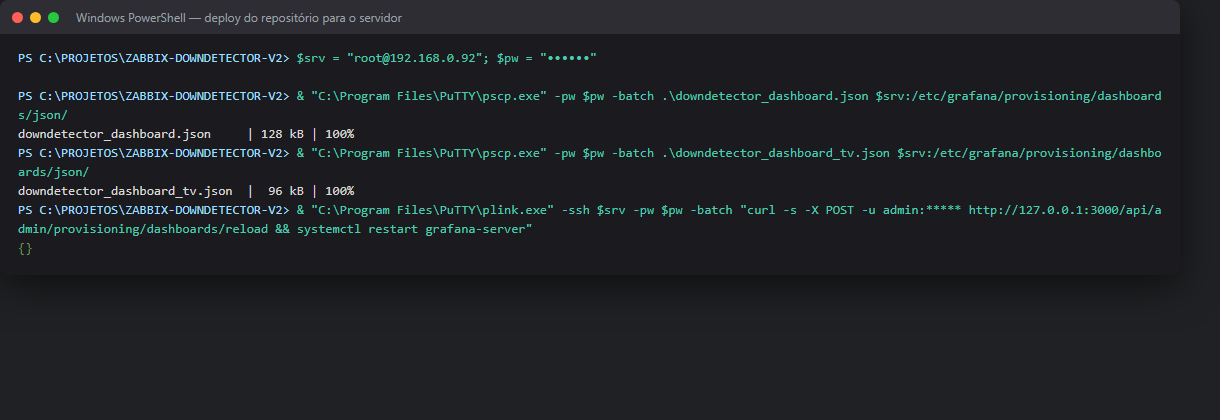
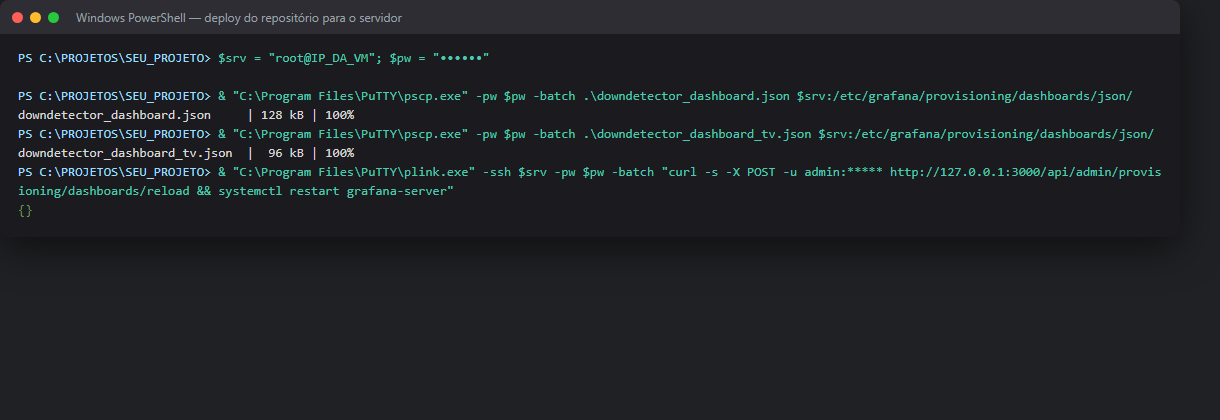
docs: remove IP interno de prints e instruções de captura

Changed region(s): [[0.0, 0.2167, 0.9656, 0.5571], [0.0934, 0.1238, 0.4984, 0.1548]]

diff --git a/docs/_tmp_term/te_05_final.html b/docs/_tmp_term/te_05_final.html
@@ -1,0 +1,61 @@
+<!DOCTYPE html><html><head><meta charset="utf-8"><style>
+* { margin:0; padding:0; box-sizing:border-box; }
+body { background:#202124; padding:0; font-family:Consolas,'Cascadia Mono','Segoe UI Symbol','Segoe UI Emoji',monospace; }
+.win { border-radius:8px; overflow:hidden; box-shadow:0 10px 40px rgba(0,0,0,.55); background:#1b1b1f; }
+.bar { height:34px; background:#2d2d33; display:flex; align-items:center; padding:0 12px; gap:7px; }
+.dot { width:11px; height:11px; border-radius:50%; }
+.dot.r{background:#ff5f56}.dot.y{background:#ffbd2e}.dot.g{background:#27c93f}
+.ttl { margin-left:10px; color:#9aa0a6; font-size:12px; font-family:'Segoe UI',Arial,sans-serif; }
+.term { padding:14px 18px 18px; font-size:13px; line-height:19px; color:#d8d8d8; white-space:pre-wrap; word-break:break-all; }
+.p  { color:#9cdcfe; }        /* prompt */
+.c  { color:#4ec9b0; }        /* comando */
+.g  { color:#6a9955; }        /* ok verde */
+.b  { color:#569cd6; }        /* azul */
+.yl { color:#dcdcaa; }        /* amarelo */
+.r  { color:#f48771; }        /* vermelho */
+.d  { color:#808080; }        /* dim */
+.w  { color:#ffffff; font-weight:600; }
+.cy { color:#4dd0e1; }
+</style></head>
+<body><div class="win" style="width:1180px">
+<div class="bar"><span class="dot r"></span><span class="dot y"></span><span class="dot g"></span>
+<span class="ttl">install.sh — etapas 10 a 13 e resumo (log real)</span></div>
+<div class="term"><span class="cy">── [10/13] Configurando kiosk da TV ─────────────────────────────────────</span>
+<span class="b">[INFO]</span>  Kiosk não configurado (ok).
+
+<span class="cy">── [11/13] Coleta inicial (semeia o dashboard) ─────────────────────────────────────</span>
+<span class="b">[INFO]</span>  Rodando o coletor (1/2) — primeira passada cria o LLD...
+<span class="g">[ OK ]</span>  Coleta 1 concluída
+<span class="b">[INFO]</span>  Aguardando o Zabbix processar o LLD (20s)...
+<span class="b">[INFO]</span>  Rodando o coletor (2/2) — envia os valores das chaves criadas...
+<span class="g">[ OK ]</span>  Coleta 2 concluída
+
+<span class="cy">── [12/13] Reiniciando Grafana (aplica plugins/provisioning) ─────────────────────────────────────</span>
+<span class="b">[INFO]</span>  Aguardando o Grafana voltar (até 4 min)...
+<span class="g">[ OK ]</span>  Grafana no ar
+
+<span class="cy">── [13/13] Verificação final ─────────────────────────────────────</span>
+  <span class="g">✓</span> Zabbix: template, host e itens LLD
+  <span class="g">✓</span> Grafana: serviço ativo
+  <span class="g">✓</span> Grafana: datasource Zabbix responde
+  <span class="g">✓</span> Grafana: plugin HTML ativo
+  <span class="g">✓</span> Dashboard 'User' provisionado
+  <span class="g">✓</span> Dashboard 'Wallboard' provisionado
+  <span class="g">✓</span> Ícones publicados no Grafana
+  <span class="g">✓</span> Playwright importa no venv
+  <span class="g">✓</span> Wrapper do coletor executável
+  <span class="g">✓</span> Cron agendado (ou desabilitado)
+
+<span class="g">════════════════════════════════════════════════════════════════</span>
+<span class="g">  ✅ Instalação concluída e verificada</span>
+<span class="g">════════════════════════════════════════════════════════════════</span>
+
+  <span class="w">Dashboards</span>
+   TV/Wallboard:  <span class="cy">http://127.0.0.1:3000/d/downdetector-tv-1?kiosk</span>
+   Investigação:  <span class="cy">http://127.0.0.1:3000/d/downdetector-noc-1</span>
+
+  <span class="w">Operação</span>
+   Testar coletor:  <span class="yl">/opt/downdetector-zabbix/run_collector.sh --test</span>
+   Forçar coleta:   <span class="yl">/opt/downdetector-zabbix/run_collector.sh</span>
+   Log da instalação:  <span class="yl">/opt/downdetector-zabbix/logs/install.log</span>
+   Cron:            <span class="yl">/etc/cron.d/downdetector-zabbix (a cada 5 min)</span></div></div></body></html>

diff --git a/docs/_tmp_term/te_02_inicio.html b/docs/_tmp_term/te_02_inicio.html
@@ -1,0 +1,45 @@
+<!DOCTYPE html><html><head><meta charset="utf-8"><style>
+* { margin:0; padding:0; box-sizing:border-box; }
+body { background:#202124; padding:0; font-family:Consolas,'Cascadia Mono','Segoe UI Symbol','Segoe UI Emoji',monospace; }
+.win { border-radius:8px; overflow:hidden; box-shadow:0 10px 40px rgba(0,0,0,.55); background:#1b1b1f; }
+.bar { height:34px; background:#2d2d33; display:flex; align-items:center; padding:0 12px; gap:7px; }
+.dot { width:11px; height:11px; border-radius:50%; }
+.dot.r{background:#ff5f56}.dot.y{background:#ffbd2e}.dot.g{background:#27c93f}
+.ttl { margin-left:10px; color:#9aa0a6; font-size:12px; font-family:'Segoe UI',Arial,sans-serif; }
+.term { padding:14px 18px 18px; font-size:13px; line-height:19px; color:#d8d8d8; white-space:pre-wrap; word-break:break-all; }
+.p  { color:#9cdcfe; }        /* prompt */
+.c  { color:#4ec9b0; }        /* comando */
+.g  { color:#6a9955; }        /* ok verde */
+.b  { color:#569cd6; }        /* azul */
+.yl { color:#dcdcaa; }        /* amarelo */
+.r  { color:#f48771; }        /* vermelho */
+.d  { color:#808080; }        /* dim */
+.w  { color:#ffffff; font-weight:600; }
+.cy { color:#4dd0e1; }
+</style></head>
+<body><div class="win" style="width:1180px">
+<div class="bar"><span class="dot r"></span><span class="dot y"></span><span class="dot g"></span>
+<span class="ttl">sudo ./install.sh — início e configuração (rep. fiel da execução real)</span></div>
+<div class="term"><span class="b">════════════════════════════════════════════════════════════════</span>
+<span class="b">  Downdetector → Zabbix → Grafana — Instalador</span>
+<span class="b">════════════════════════════════════════════════════════════════</span>
+<span class="g">[ OK ]</span>  SO: Debian GNU/Linux 13 (trixie)
+
+<span class="cy">── [1/13] Instalando dependências do sistema ─────────────────────────────────────</span>
+<span class="g">[ OK ]</span>  Dependências do sistema prontas
+
+<span class="cy">════════════════════════════════════════════════════════════</span>
+<span class="cy">  Configuração do Downdetector Monitor</span>
+<span class="cy">════════════════════════════════════════════════════════════</span>
+
+Diretório de instalação [/opt/downdetector-zabbix]: <span class="d">⏎</span>
+Zabbix URL [http://127.0.0.1/zabbix]: <span class="d">⏎</span>
+Zabbix usuário [Admin]: <span class="d">⏎</span>
+<span class="w">Zabbix senha:</span> <span class="d">********</span>
+<span class="g">[ OK ]</span>  Zabbix autenticado: http://127.0.0.1/zabbix
+Grafana URL [http://127.0.0.1:3000]: <span class="d">⏎</span>
+Grafana usuário [admin]: <span class="d">⏎</span>
+<span class="w">Grafana senha:</span> <span class="d">********</span>
+<span class="g">[ OK ]</span>  Grafana autenticado: http://127.0.0.1:3000
+Agendar coleta automática a cada 5 minutos (cron)? <span class="b">[S/n]</span> S
+Configurar este servidor como TV (kiosk em tela cheia)? <span class="b">[s/N]</span> n</div></div></body></html>

diff --git a/docs/_tmp_term/te_04_provisioning.html b/docs/_tmp_term/te_04_provisioning.html
@@ -1,0 +1,42 @@
+<!DOCTYPE html><html><head><meta charset="utf-8"><style>
+* { margin:0; padding:0; box-sizing:border-box; }
+body { background:#202124; padding:0; font-family:Consolas,'Cascadia Mono','Segoe UI Symbol','Segoe UI Emoji',monospace; }
+.win { border-radius:8px; overflow:hidden; box-shadow:0 10px 40px rgba(0,0,0,.55); background:#1b1b1f; }
+.bar { height:34px; background:#2d2d33; display:flex; align-items:center; padding:0 12px; gap:7px; }
+.dot { width:11px; height:11px; border-radius:50%; }
+.dot.r{background:#ff5f56}.dot.y{background:#ffbd2e}.dot.g{background:#27c93f}
+.ttl { margin-left:10px; color:#9aa0a6; font-size:12px; font-family:'Segoe UI',Arial,sans-serif; }
+.term { padding:14px 18px 18px; font-size:13px; line-height:19px; color:#d8d8d8; white-space:pre-wrap; word-break:break-all; }
+.p  { color:#9cdcfe; }        /* prompt */
+.c  { color:#4ec9b0; }        /* comando */
+.g  { color:#6a9955; }        /* ok verde */
+.b  { color:#569cd6; }        /* azul */
+.yl { color:#dcdcaa; }        /* amarelo */
+.r  { color:#f48771; }        /* vermelho */
+.d  { color:#808080; }        /* dim */
+.w  { color:#ffffff; font-weight:600; }
+.cy { color:#4dd0e1; }
+</style></head>
+<body><div class="win" style="width:1180px">
+<div class="bar"><span class="dot r"></span><span class="dot y"></span><span class="dot g"></span>
+<span class="ttl">install.sh — etapas 7 a 9 (log real)</span></div>
+<div class="term"><span class="cy">── [7/13] Provisionando Grafana (datasource, dashboards, ícones) ─────────────────────────────────────</span>
+<span class="g">[ OK ]</span>  Datasource Zabbix provisionado (uid PA67C5EADE9207728)
+<span class="b">[INFO]</span>  Gerando dashboards...
+<span class="g">[ OK ]</span>  Dashboards copiados (User + Wallboard)
+<span class="g">[ OK ]</span>  Ícones instalados (51 arquivos)
+<span class="d">✓ Datasource Zabbix provisionado via arquivo (uid=PA67C5EADE9207728)</span>
+<span class="d">✓ Ícones copiados para /usr/share/grafana/public/img/downdetector</span>
+<span class="d">✓ Plugin gapit-htmlgraphics-panel habilitado</span>
+<span class="d">✓ Plugin alexanderzobnin-zabbix-app habilitado</span>
+<span class="d">✓ Provisioning do Grafana recarregado</span>
+<span class="g">[ OK ]</span>  Grafana provisionado
+
+<span class="cy">── [8/13] Configurando Zabbix (template + host) ─────────────────────────────────────</span>
+<span class="d">✓ Logado no Zabbix (http://127.0.0.1/zabbix)</span>
+<span class="d">✓ Template 'Downdetector Monitor' importado/atualizado</span>
+<span class="d">✓ Host 'Downdetector' atualizado</span>
+<span class="g">[ OK ]</span>  Zabbix configurado
+
+<span class="cy">── [9/13] Agendando coleta (cron */5) ─────────────────────────────────────</span>
+<span class="g">[ OK ]</span>  Cron: /etc/cron.d/downdetector-zabbix</div></div></body></html>

diff --git a/docs/_tmp_term/te_01_preflight.html b/docs/_tmp_term/te_01_preflight.html
@@ -1,0 +1,40 @@
+<!DOCTYPE html><html><head><meta charset="utf-8"><style>
+* { margin:0; padding:0; box-sizing:border-box; }
+body { background:#202124; padding:0; font-family:Consolas,'Cascadia Mono','Segoe UI Symbol','Segoe UI Emoji',monospace; }
+.win { border-radius:8px; overflow:hidden; box-shadow:0 10px 40px rgba(0,0,0,.55); background:#1b1b1f; }
+.bar { height:34px; background:#2d2d33; display:flex; align-items:center; padding:0 12px; gap:7px; }
+.dot { width:11px; height:11px; border-radius:50%; }
+.dot.r{background:#ff5f56}.dot.y{background:#ffbd2e}.dot.g{background:#27c93f}
+.ttl { margin-left:10px; color:#9aa0a6; font-size:12px; font-family:'Segoe UI',Arial,sans-serif; }
+.term { padding:14px 18px 18px; font-size:13px; line-height:19px; color:#d8d8d8; white-space:pre-wrap; word-break:break-all; }
+.p  { color:#9cdcfe; }        /* prompt */
+.c  { color:#4ec9b0; }        /* comando */
+.g  { color:#6a9955; }        /* ok verde */
+.b  { color:#569cd6; }        /* azul */
+.yl { color:#dcdcaa; }        /* amarelo */
+.r  { color:#f48771; }        /* vermelho */
+.d  { color:#808080; }        /* dim */
+.w  { color:#ffffff; font-weight:600; }
+.cy { color:#4dd0e1; }
+</style></head>
+<body><div class="win" style="width:1180px">
+<div class="bar"><span class="dot r"></span><span class="dot y"></span><span class="dot g"></span>
+<span class="ttl">root@debian: — verificação de pré-requisitos (saída real)</span></div>
+<div class="term"><span class="p">root@debian</span><span class="d">:</span><span class="c">~</span><span class="d">$</span> <span class="c">systemctl is-active grafana-server zabbix-server apache2</span>
+active
+active
+active
+
+<span class="p">root@debian</span><span class="d">:</span><span class="c">~</span><span class="d">$</span> <span class="c">grafana-server -v</span>
+Version 13.2.3 (commit: 90ffed056f0884267356c12a0eeb72a022af53f1, branch: release-13.2.3#patched)
+
+<span class="p">root@debian</span><span class="d">:</span><span class="c">~</span><span class="d">$</span> <span class="c">zabbix_server --version</span>
+zabbix_server (Zabbix) 7.4.15
+
+<span class="p">root@debian</span><span class="d">:</span><span class="c">~</span><span class="d">$</span> <span class="c">python3 --version</span>
+Python 3.13.5
+
+<span class="p">root@debian</span><span class="d">:</span><span class="c">~</span><span class="d">$</span> <span class="c">free -h | head -2; df -h / | tail -1</span>
+               total       usada       livre    compart.  buff/cache  disponível
+Mem.:          5,8Gi       1,8Gi       1,3Gi        30Mi       3,0Gi       4,0Gi
+/dev/sda1        47G   15G   30G  34% /</div></div></body></html>

diff --git a/docs/_tmp_term/te_03_estrutura.html b/docs/_tmp_term/te_03_estrutura.html
@@ -1,0 +1,36 @@
+<!DOCTYPE html><html><head><meta charset="utf-8"><style>
+* { margin:0; padding:0; box-sizing:border-box; }
+body { background:#202124; padding:0; font-family:Consolas,'Cascadia Mono','Segoe UI Symbol','Segoe UI Emoji',monospace; }
+.win { border-radius:8px; overflow:hidden; box-shadow:0 10px 40px rgba(0,0,0,.55); background:#1b1b1f; }
+.bar { height:34px; background:#2d2d33; display:flex; align-items:center; padding:0 12px; gap:7px; }
+.dot { width:11px; height:11px; border-radius:50%; }
+.dot.r{background:#ff5f56}.dot.y{background:#ffbd2e}.dot.g{background:#27c93f}
+.ttl { margin-left:10px; color:#9aa0a6; font-size:12px; font-family:'Segoe UI',Arial,sans-serif; }
+.term { padding:14px 18px 18px; font-size:13px; line-height:19px; color:#d8d8d8; white-space:pre-wrap; word-break:break-all; }
+.p  { color:#9cdcfe; }        /* prompt */
+.c  { color:#4ec9b0; }        /* comando */
+.g  { color:#6a9955; }        /* ok verde */
+.b  { color:#569cd6; }        /* azul */
+.yl { color:#dcdcaa; }        /* amarelo */
+.r  { color:#f48771; }        /* vermelho */
+.d  { color:#808080; }        /* dim */
+.w  { color:#ffffff; font-weight:600; }
+.cy { color:#4dd0e1; }
+</style></head>
+<body><div class="win" style="width:1180px">
+<div class="bar"><span class="dot r"></span><span class="dot y"></span><span class="dot g"></span>
+<span class="ttl">install.sh — etapas 3 a 6 (log real)</span></div>
+<div class="term"><span class="cy">── [3/13] Copiando arquivos do projeto ─────────────────────────────────────</span>
+<span class="g">[ OK ]</span>  Arquivos copiados
+
+<span class="cy">── [4/13] Ambiente Python + Chromium ─────────────────────────────────────</span>
+<span class="g">[ OK ]</span>  Virtualenv já existe
+<span class="g">[ OK ]</span>  Pacotes Python instalados
+<span class="g">[ OK ]</span>  Chromium pronto
+
+<span class="cy">── [5/13] Criando wrapper do coletor ─────────────────────────────────────</span>
+<span class="g">[ OK ]</span>  Wrapper: /opt/downdetector-zabbix/run_collector.sh
+
+<span class="cy">── [6/13] Garantindo plugins do Grafana ─────────────────────────────────────</span>
+<span class="g">[ OK ]</span>  Plugin presente: gapit-htmlgraphics-panel
+<span class="g">[ OK ]</span>  Plugin presente: alexanderzobnin-zabbix-app</div></div></body></html>

diff --git a/docs/_tmp_term/te_07_deploy_windows.html b/docs/_tmp_term/te_07_deploy_windows.html
@@ -1,0 +1,30 @@
+<!DOCTYPE html><html><head><meta charset="utf-8"><style>
+* { margin:0; padding:0; box-sizing:border-box; }
+body { background:#202124; padding:0; font-family:Consolas,'Cascadia Mono','Segoe UI Symbol','Segoe UI Emoji',monospace; }
+.win { border-radius:8px; overflow:hidden; box-shadow:0 10px 40px rgba(0,0,0,.55); background:#1b1b1f; }
+.bar { height:34px; background:#2d2d33; display:flex; align-items:center; padding:0 12px; gap:7px; }
+.dot { width:11px; height:11px; border-radius:50%; }
+.dot.r{background:#ff5f56}.dot.y{background:#ffbd2e}.dot.g{background:#27c93f}
+.ttl { margin-left:10px; color:#9aa0a6; font-size:12px; font-family:'Segoe UI',Arial,sans-serif; }
+.term { padding:14px 18px 18px; font-size:13px; line-height:19px; color:#d8d8d8; white-space:pre-wrap; word-break:break-all; }
+.p  { color:#9cdcfe; }        /* prompt */
+.c  { color:#4ec9b0; }        /* comando */
+.g  { color:#6a9955; }        /* ok verde */
+.b  { color:#569cd6; }        /* azul */
+.yl { color:#dcdcaa; }        /* amarelo */
+.r  { color:#f48771; }        /* vermelho */
+.d  { color:#808080; }        /* dim */
+.w  { color:#ffffff; font-weight:600; }
+.cy { color:#4dd0e1; }
+</style></head>
+<body><div class="win" style="width:1180px">
+<div class="bar"><span class="dot r"></span><span class="dot y"></span><span class="dot g"></span>
+<span class="ttl">Windows PowerShell — deploy do repositório para o servidor</span></div>
+<div class="term"><span class="p">PS C:\PROJETOS\SEU_PROJETO&gt;</span> <span class="c">$srv = "root@IP_DA_VM"; $pw = "••••••"</span>
+
+<span class="p">PS C:\PROJETOS\SEU_PROJETO&gt;</span> <span class="c">&amp; "C:\Program Files\PuTTY\pscp.exe" -pw $pw -batch .\downdetector_dashboard.json $srv:/etc/grafana/provisioning/dashboards/json/</span>
+downdetector_dashboard.json     | 128 kB | 100%
+<span class="p">PS C:\PROJETOS\SEU_PROJETO&gt;</span> <span class="c">&amp; "C:\Program Files\PuTTY\pscp.exe" -pw $pw -batch .\downdetector_dashboard_tv.json $srv:/etc/grafana/provisioning/dashboards/json/</span>
+downdetector_dashboard_tv.json  |  96 kB | 100%
+<span class="p">PS C:\PROJETOS\SEU_PROJETO&gt;</span> <span class="c">&amp; "C:\Program Files\PuTTY\plink.exe" -ssh $srv -pw $pw -batch "curl -s -X POST -u admin:***** http://127.0.0.1:3000/api/admin/provisioning/dashboards/reload &amp;&amp; systemctl restart grafana-server"</span>
+<span class="g">{}</span></div></div></body></html>

diff --git a/docs/_tmp_term/te_06_coletor.html b/docs/_tmp_term/te_06_coletor.html
@@ -1,0 +1,26 @@
+<!DOCTYPE html><html><head><meta charset="utf-8"><style>
+* { margin:0; padding:0; box-sizing:border-box; }
+body { background:#202124; padding:0; font-family:Consolas,'Cascadia Mono','Segoe UI Symbol','Segoe UI Emoji',monospace; }
+.win { border-radius:8px; overflow:hidden; box-shadow:0 10px 40px rgba(0,0,0,.55); background:#1b1b1f; }
+.bar { height:34px; background:#2d2d33; display:flex; align-items:center; padding:0 12px; gap:7px; }
+.dot { width:11px; height:11px; border-radius:50%; }
+.dot.r{background:#ff5f56}.dot.y{background:#ffbd2e}.dot.g{background:#27c93f}
+.ttl { margin-left:10px; color:#9aa0a6; font-size:12px; font-family:'Segoe UI',Arial,sans-serif; }
+.term { padding:14px 18px 18px; font-size:13px; line-height:19px; color:#d8d8d8; white-space:pre-wrap; word-break:break-all; }
+.p  { color:#9cdcfe; }        /* prompt */
+.c  { color:#4ec9b0; }        /* comando */
+.g  { color:#6a9955; }        /* ok verde */
+.b  { color:#569cd6; }        /* azul */
+.yl { color:#dcdcaa; }        /* amarelo */
+.r  { color:#f48771; }        /* vermelho */
+.d  { color:#808080; }        /* dim */
+.w  { color:#ffffff; font-weight:600; }
+.cy { color:#4dd0e1; }
+</style></head>
+<body><div class="win" style="width:1180px">
+<div class="bar"><span class="dot r"></span><span class="dot y"></span><span class="dot g"></span>
+<span class="ttl">Coletor em operação — log real (/opt/downdetector-zabbix/logs/downdetector.log)</span></div>
+<div class="term"><span class="d">2026-09-30 15:05:05</span> <span class="b">[INFO]</span> Discovery OK: Response from "127.0.0.1:10051": "processed: 1; failed: 0; total: 1; seconds spent: 0.000067"
+<span class="d">2026-09-30 15:05:06</span> <span class="b">[INFO]</span> zabbix_sender OK: Response from "127.0.0.1:10051": "<span class="g">processed: 85; failed: 0</span>; total: 85; seconds spent: 0.000327"
+<span class="d">2026-09-30 15:10:07</span> <span class="b">[INFO]</span> Discovery OK: Response from "127.0.0.1:10051": "processed: 1; failed: 0; total: 1; seconds spent: 0.000068"
+<span class="d">2026-09-30 15:10:08</span> <span class="b">[INFO]</span> zabbix_sender OK: Response from "127.0.0.1:10051": "<span class="g">processed: 85; failed: 0</span>; total: 85; seconds spent: 0.000343"</div></div></body></html>

diff --git a/docs/make_term_prints.py b/docs/make_term_prints.py
@@ -237,9 +237,9 @@ block("te_06_coletor", "Coletor em operação — log real (/opt/downdetector-za
 ], 300)
 
 # ── T7: deploy a partir do Windows (PowerShell) ─────────────────────────────
-PS = '<span class="p">PS C:\\PROJETOS\\ZABBIX-DOWNDETECTOR-V2&gt;</span> '
+PS = '<span class="p">PS C:\PROJETOS\SEU_PROJETO&gt;</span> '
 block("te_07_deploy_windows", "Windows PowerShell — deploy do repositório para o servidor", [
-    PS + '<span class="c">$srv = "root@192.168.0.92"; $pw = "••••••"</span>',
+    PS + '<span class="c">$srv = "root@IP_DA_VM"; $pw = "••••••"</span>',
     "",
     PS + '<span class="c">&amp; "C:\\Program Files\\PuTTY\\pscp.exe" -pw $pw -batch .\\downdetector_dashboard.json $srv:/etc/grafana/provisioning/dashboards/json/</span>',
     "downdetector_dashboard.json     | 128 kB | 100%",

diff --git a/docs/README.md b/docs/README.md
@@ -28,13 +28,13 @@ python docs\build_pdf.py
 
 ## Atualizar os prints dos dashboards
 
-Na VM de teste (192.168.0.92), com o pipeline no ar:
+Na VM de teste (IP_DA_VM), com o pipeline no ar:
 
 ```powershell
-& "C:\Program Files\PuTTY\pscp.exe" -pw <senha> -batch docs\shot_dashboards.py root@192.168.0.92:/tmp/
-& "C:\Program Files\PuTTY\plink.exe" -ssh root@192.168.0.92 -pw <senha> -batch "/opt/downdetector-zabbix/venv/bin/python /tmp/shot_dashboards.py"
-& "C:\Program Files\PuTTY\pscp.exe" -pw <senha> -batch root@192.168.0.92:/tmp/user_kiosk.png docs\img\04_dashboard_user.png
-& "C:\Program Files\PuTTY\pscp.exe" -pw <senha> -batch root@192.168.0.92:/tmp/wallboard_kiosk.png docs\img\03_wallboard_tv.png
+& "C:\Program Files\PuTTY\pscp.exe" -pw <senha> -batch docs\shot_dashboards.py root@IP_DA_VM:/tmp/
+& "C:\Program Files\PuTTY\plink.exe" -ssh root@IP_DA_VM -pw <senha> -batch "/opt/downdetector-zabbix/venv/bin/python /tmp/shot_dashboards.py"
+& "C:\Program Files\PuTTY\pscp.exe" -pw <senha> -batch root@IP_DA_VM:/tmp/user_kiosk.png docs\img\04_dashboard_user.png
+& "C:\Program Files\PuTTY\pscp.exe" -pw <senha> -batch root@IP_DA_VM:/tmp/wallboard_kiosk.png docs\img\03_wallboard_tv.png
 python docs\build_pdf.py
 ```
 
